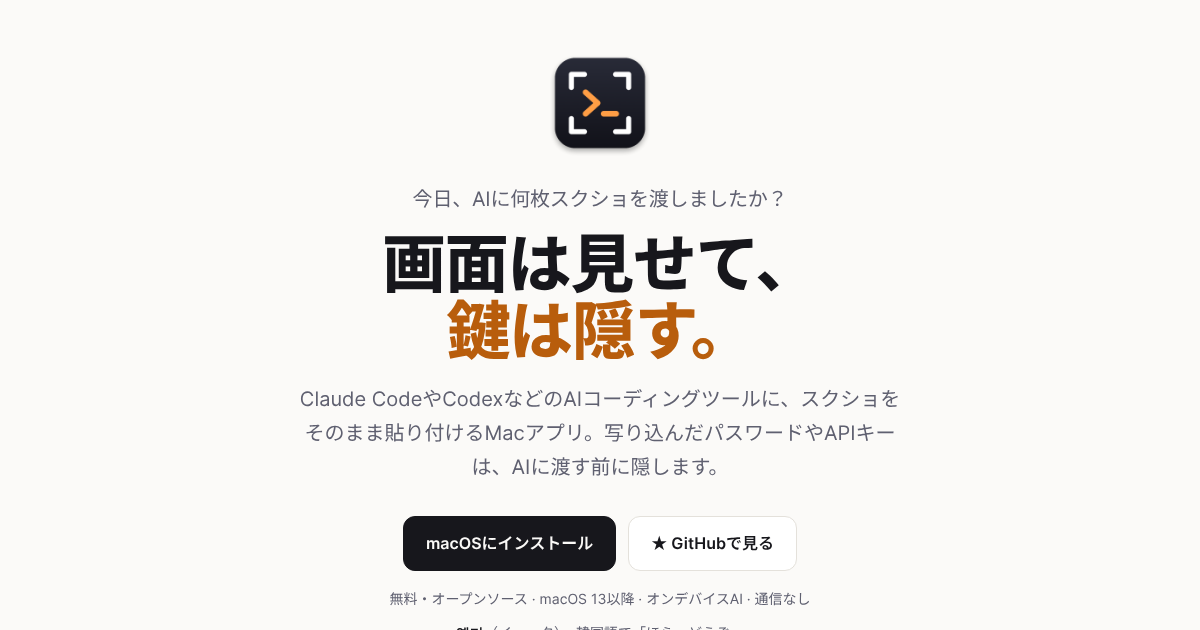
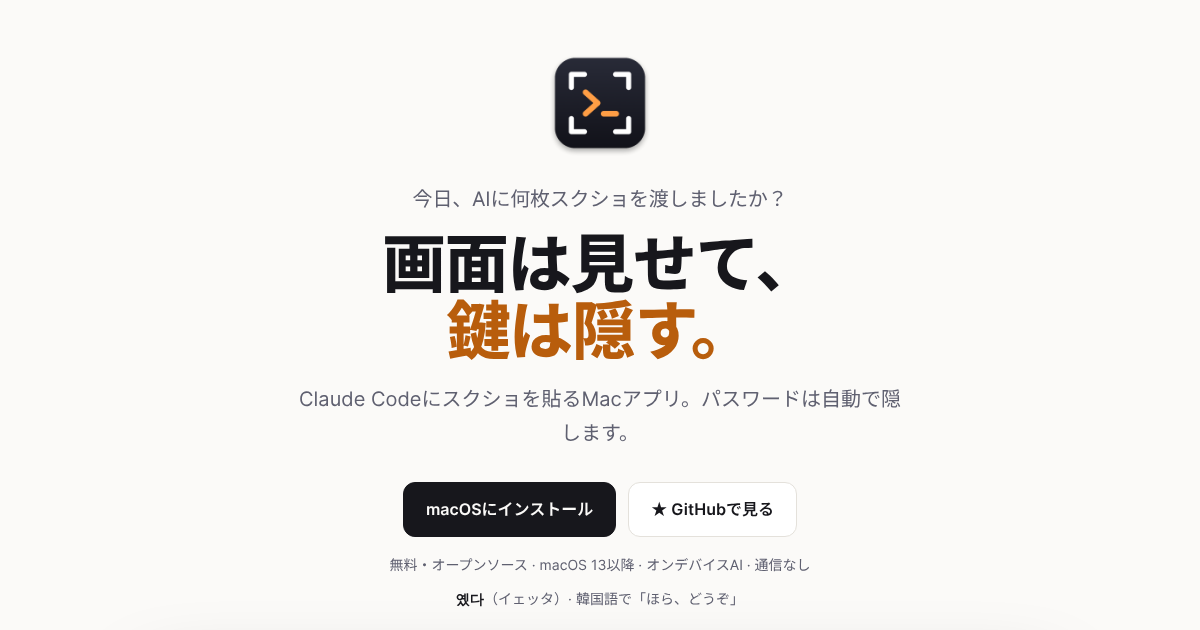
Hero sub: one short line
Claude-Session: https://claude.ai/code/session_01Fvs9D4jfzzeqk41wXqDAkK

Changed region(s): [[0.2467, 0.6032, 0.7708, 0.9048], [0.3083, 0.9349, 0.6783, 0.9651], [0.37, 0.9952, 0.6167, 1.0]]

diff --git a/docs/ja/index.html b/docs/ja/index.html
@@ -373,7 +373,7 @@
     <img class="logo" src="../icon.png" alt="Yetdaのアイコン">
     <p class="hook">今日、AIに何枚スクショを渡しましたか？</p>
     <h1>画面は見せて、<br><span class="hl">鍵は隠す。</span></h1>
-    <p class="sub">Claude CodeやCodexなどのAIコーディングツールに、スクショをそのまま貼り付けるMacアプリ。写り込んだパスワードやAPIキーは、AIに渡す前に隠します。</p>
+    <p class="sub">Claude Codeにスクショを貼るMacアプリ。パスワードは自動で隠します。</p>
     <div class="cta">
       <a class="btn primary" href="#install">macOSにインストール</a>
       <a class="btn" href="https://github.com/woonmayer/yetda">★ GitHubで見る</a>

diff --git a/docs/ko/index.html b/docs/ko/index.html
@@ -373,7 +373,7 @@
     <img class="logo" src="../icon.png" alt="Yetda 아이콘">
     <p class="hook">오늘 AI한테 스크린샷 몇 장 넘기셨어요?</p>
     <h1>옜다, 화면.<br><span class="hl">비번은 빼고.</span></h1>
-    <p class="sub">Claude Code·Codex 같은 AI 코딩 도구에 스크린샷을 바로 붙여 주는 맥 앱. 화면에 찍힌 비밀번호·API 키는 AI에게 넘어가기 전에 가려요.</p>
+    <p class="sub">Claude Code에 스크린샷 붙이는 맥 앱. 비번은 알아서 가려요.</p>
     <div class="cta">
       <a class="btn primary" href="#install">macOS에 설치</a>
       <a class="btn" href="https://github.com/woonmayer/yetda">★ GitHub에서 보기</a>

diff --git a/docs/index.html b/docs/index.html
@@ -373,7 +373,7 @@
     <img class="logo" src="icon.png" alt="Yetda icon">
     <p class="hook">How many screenshots did you hand your AI today?</p>
     <h1>Show your agent the screen.<br><span class="hl">Not your keys.</span></h1>
-    <p class="sub">A Mac app that pastes screenshots straight into AI coding tools like Claude Code and Codex. Passwords and API keys in the shot are hidden before the AI sees them.</p>
+    <p class="sub">Paste screenshots into Claude Code from your Mac. Passwords get hidden on the way.</p>
     <div class="cta">
       <a class="btn primary" href="#install">Install for macOS</a>
       <a class="btn" href="https://github.com/woonmayer/yetda">★ View on GitHub</a>
